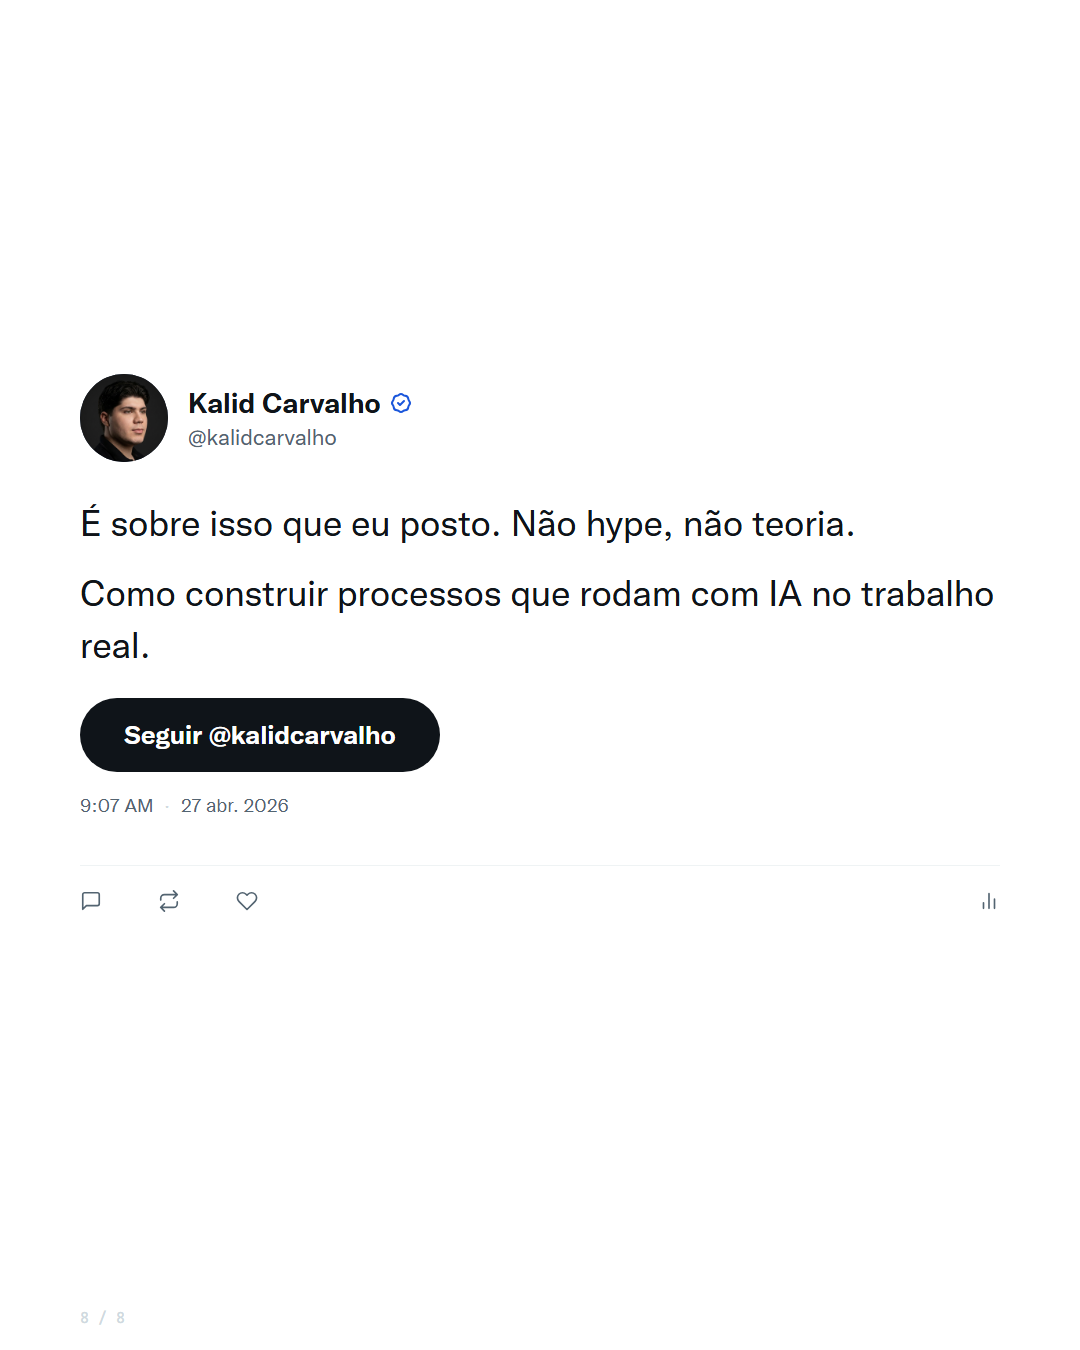
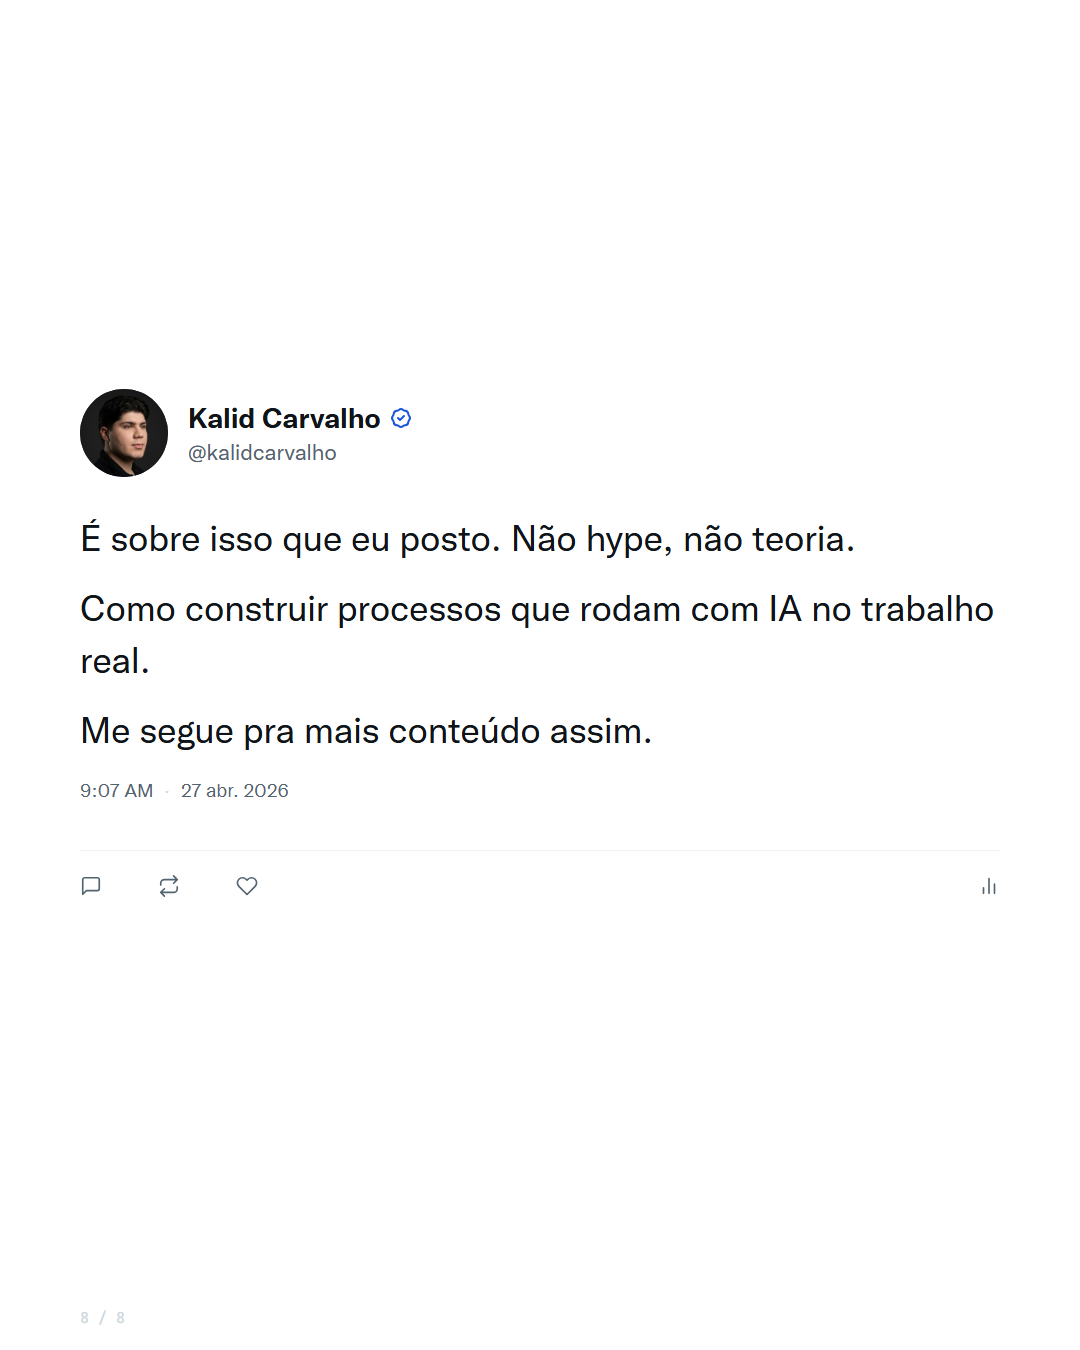
auto-sync: 2026-04-27 01:29

Changed region(s): [[0.0611, 0.28, 0.9167, 0.6222], [0.2139, 0.6533, 0.2444, 0.6844], [0.0611, 0.6533, 0.0917, 0.6844]]

diff --git a/conteudo/kalidcarvalho/carrosseis/2026-04-27/5-formas-ia/instagram/slide-08.html b/conteudo/kalidcarvalho/carrosseis/2026-04-27/5-formas-ia/instagram/slide-08.html
@@ -51,7 +51,7 @@ body { width: 1080px; height: 1350px; background: #FFFFFF; font-family: 'Chirp',
     <div class="tweet-text">
       <p>É sobre isso que eu posto. Não hype, não teoria.</p>
       <p>Como construir processos que rodam com IA no trabalho real.</p>
-      <div class="follow-cta"><span>Seguir @kalidcarvalho</span></div>
+      <p>Me segue pra mais conteúdo assim.</p>
     </div>
     <div class="tweet-timestamp">9:07 AM <span>·</span> 27 abr. 2026</div>
   </div>
